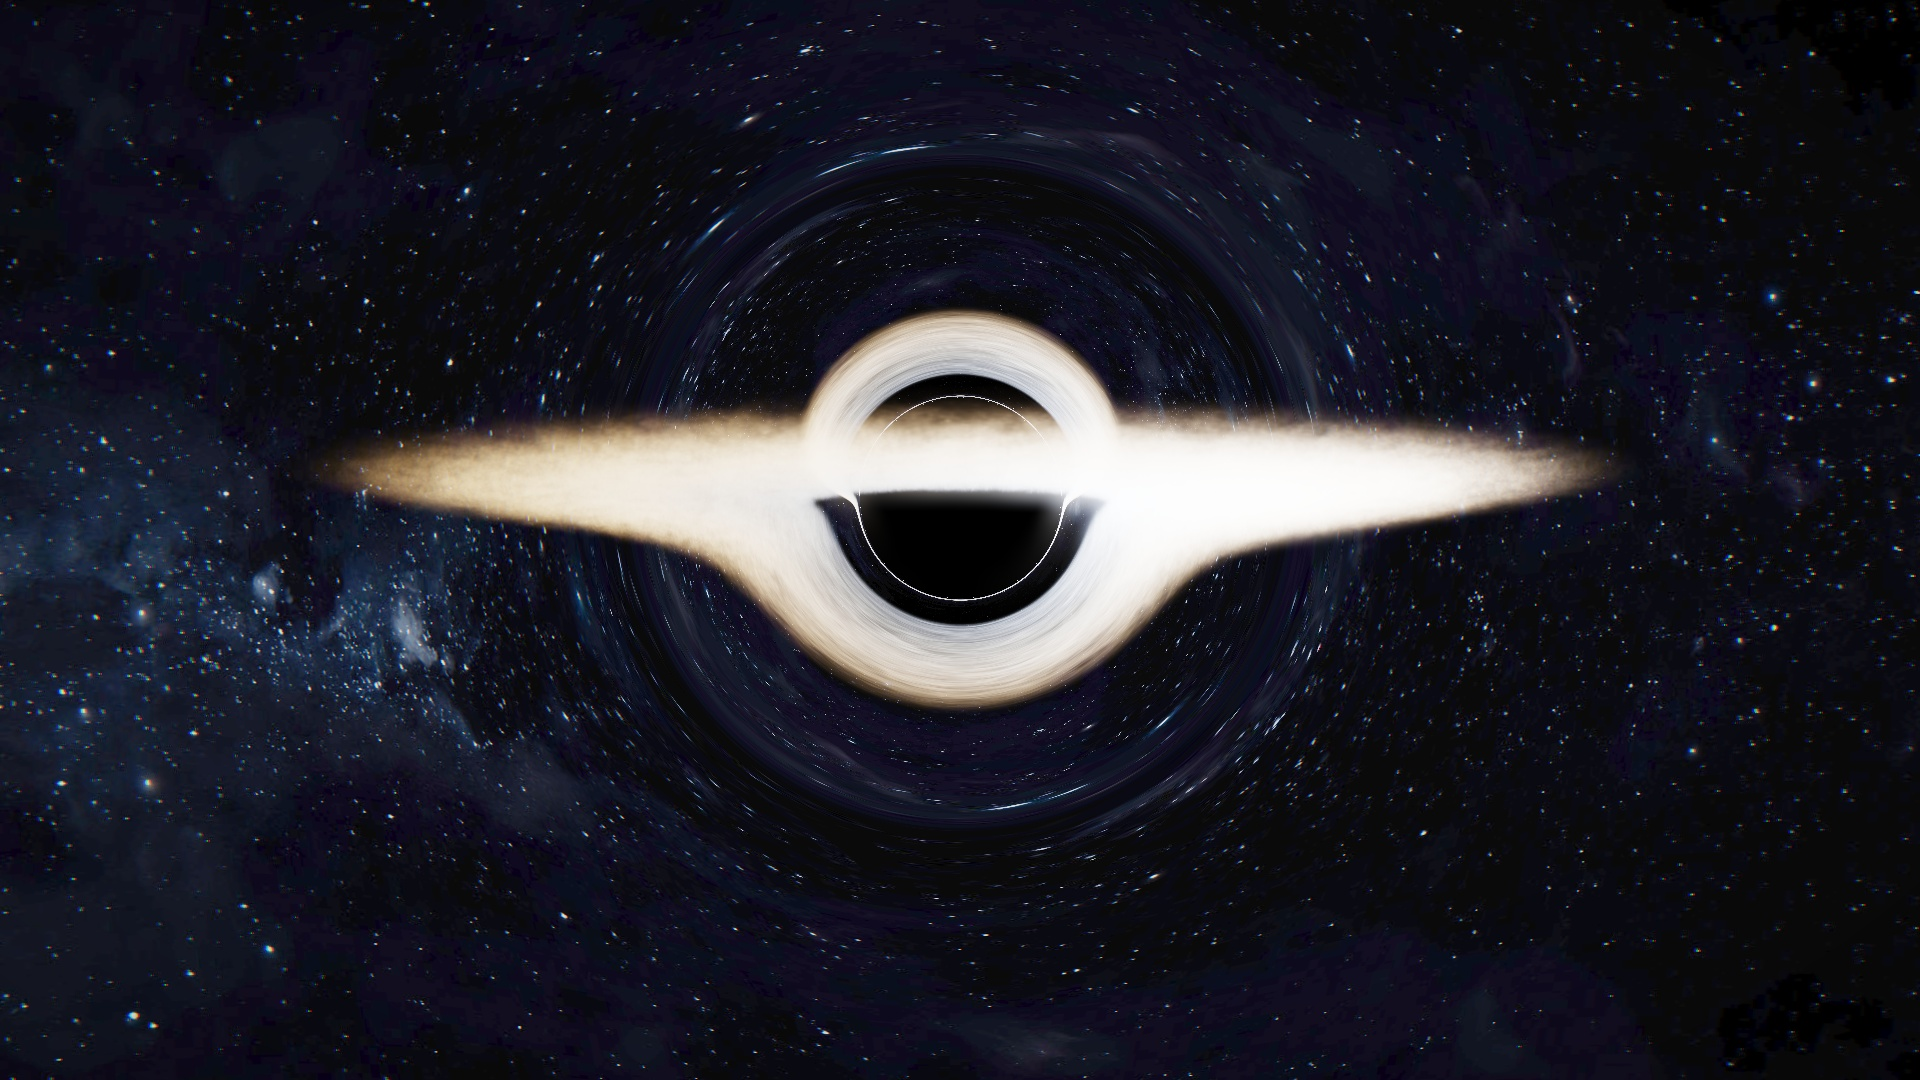
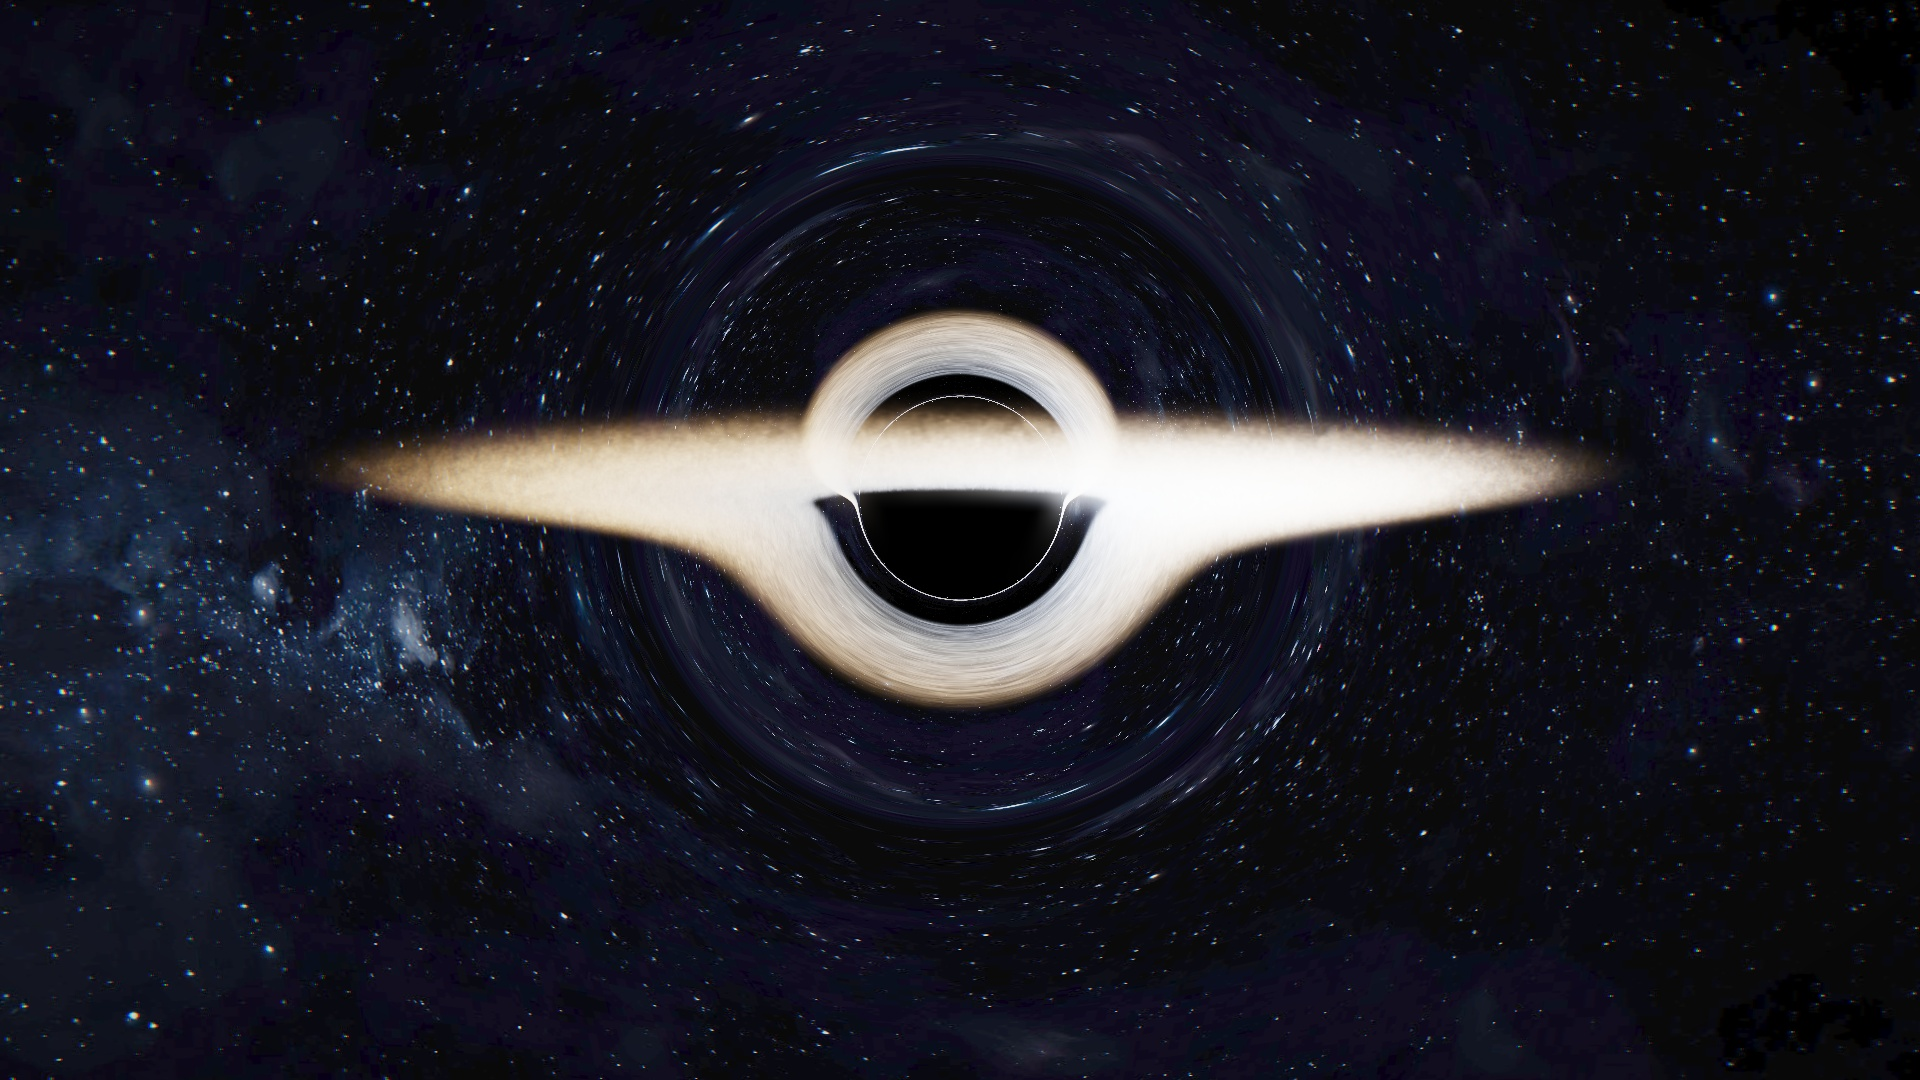
minor changes

diff --git a/sagittarius_renderer.py b/sagittarius_renderer.py
@@ -745,14 +745,14 @@ class SagittariusRenderer:
         self.cfg_sim.gm = self.cfg_render.gm
         
         # INTERSTELLAR: Turbulence tuned for stretched, cinematic orbital bands
-        self.cfg_sim.vertical_noise_scale = 1.2
+        self.cfg_sim.vertical_noise_scale = 0.1
         self.cfg_sim.vertical_strength = 0.9
         self.cfg_sim.warp_field_scale = 1.0
         self.cfg_sim.warp_strength = 1.8
         self.cfg_sim.tangential_stretch = 90.0
         self.cfg_sim.filament_noise_scale = 1.5
         self.cfg_sim.filament_contrast = 6.0
-        self.cfg_sim.clump_noise_scale = 0.5
+        self.cfg_sim.clump_noise_scale = 0.1
         self.cfg_sim.clump_strength = 0.2
         self.cfg_sim.disk_noise_strength = 1.5
 
